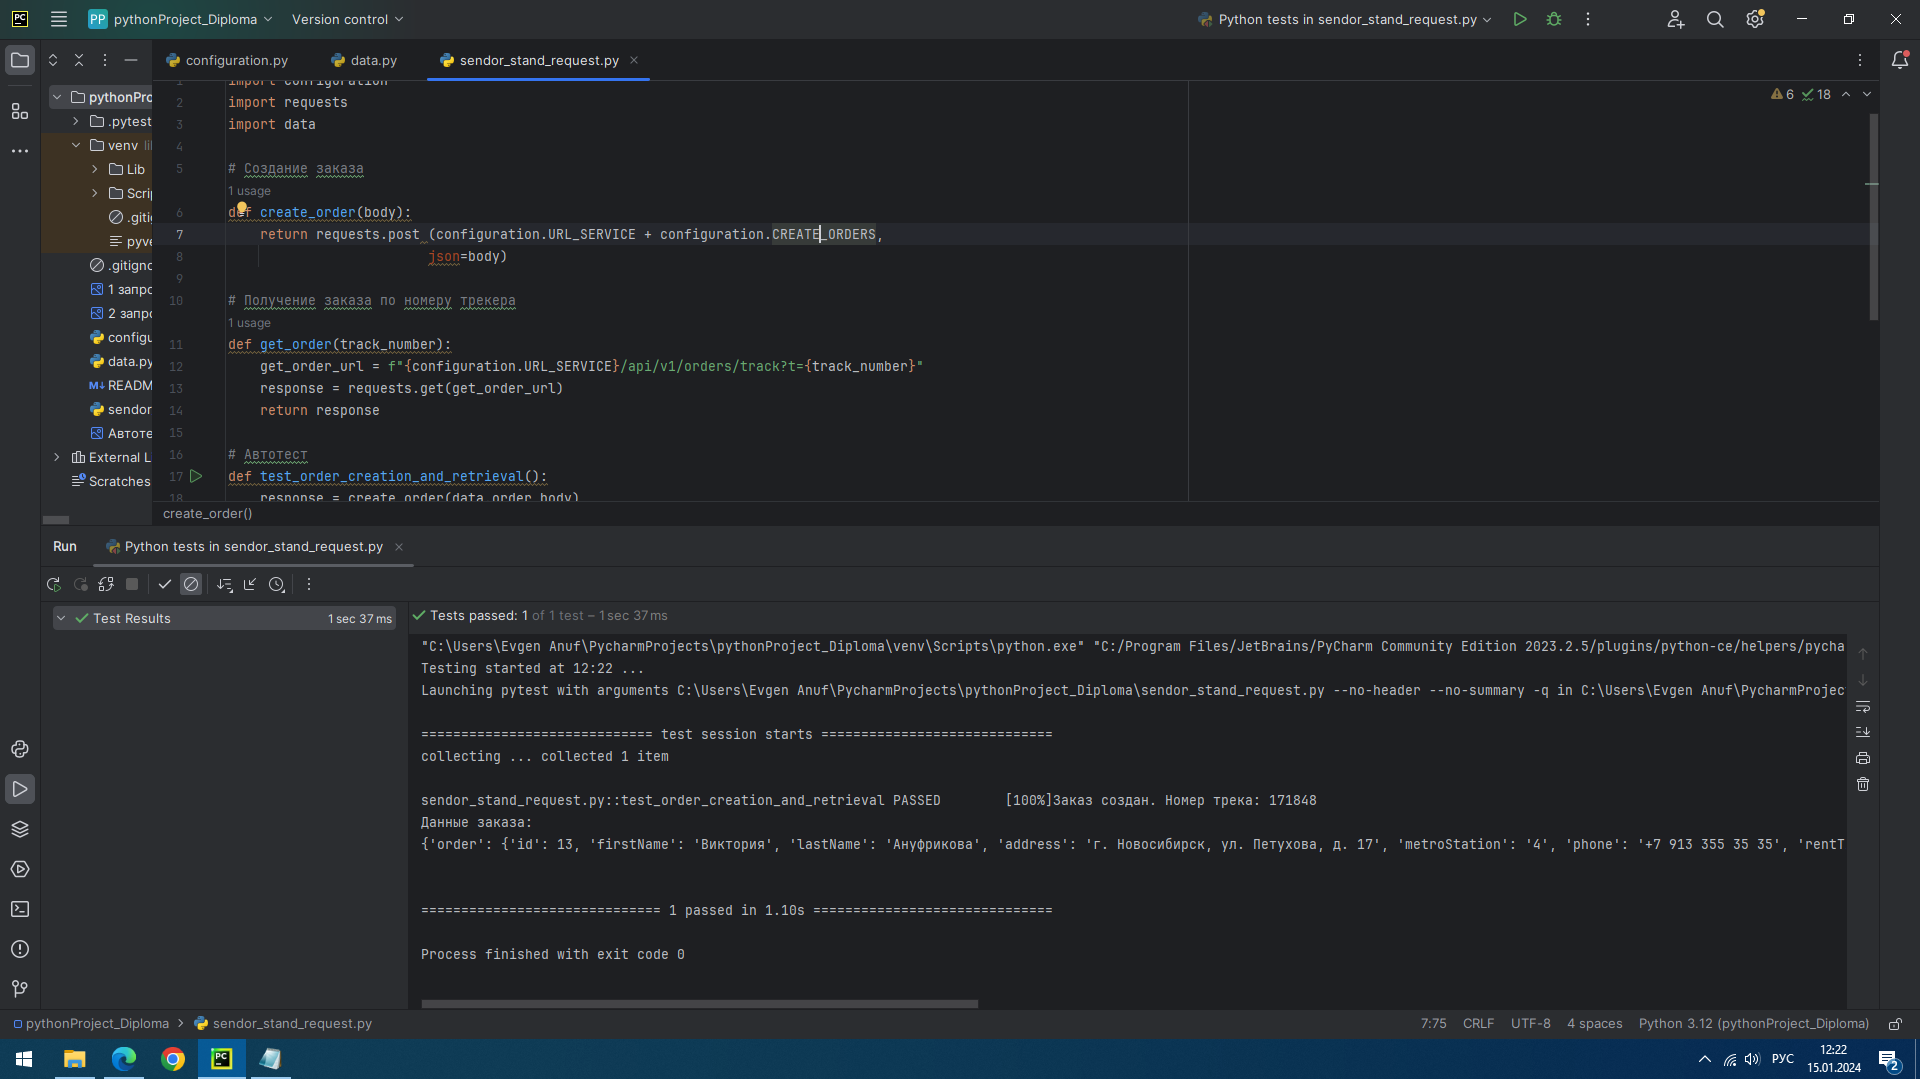
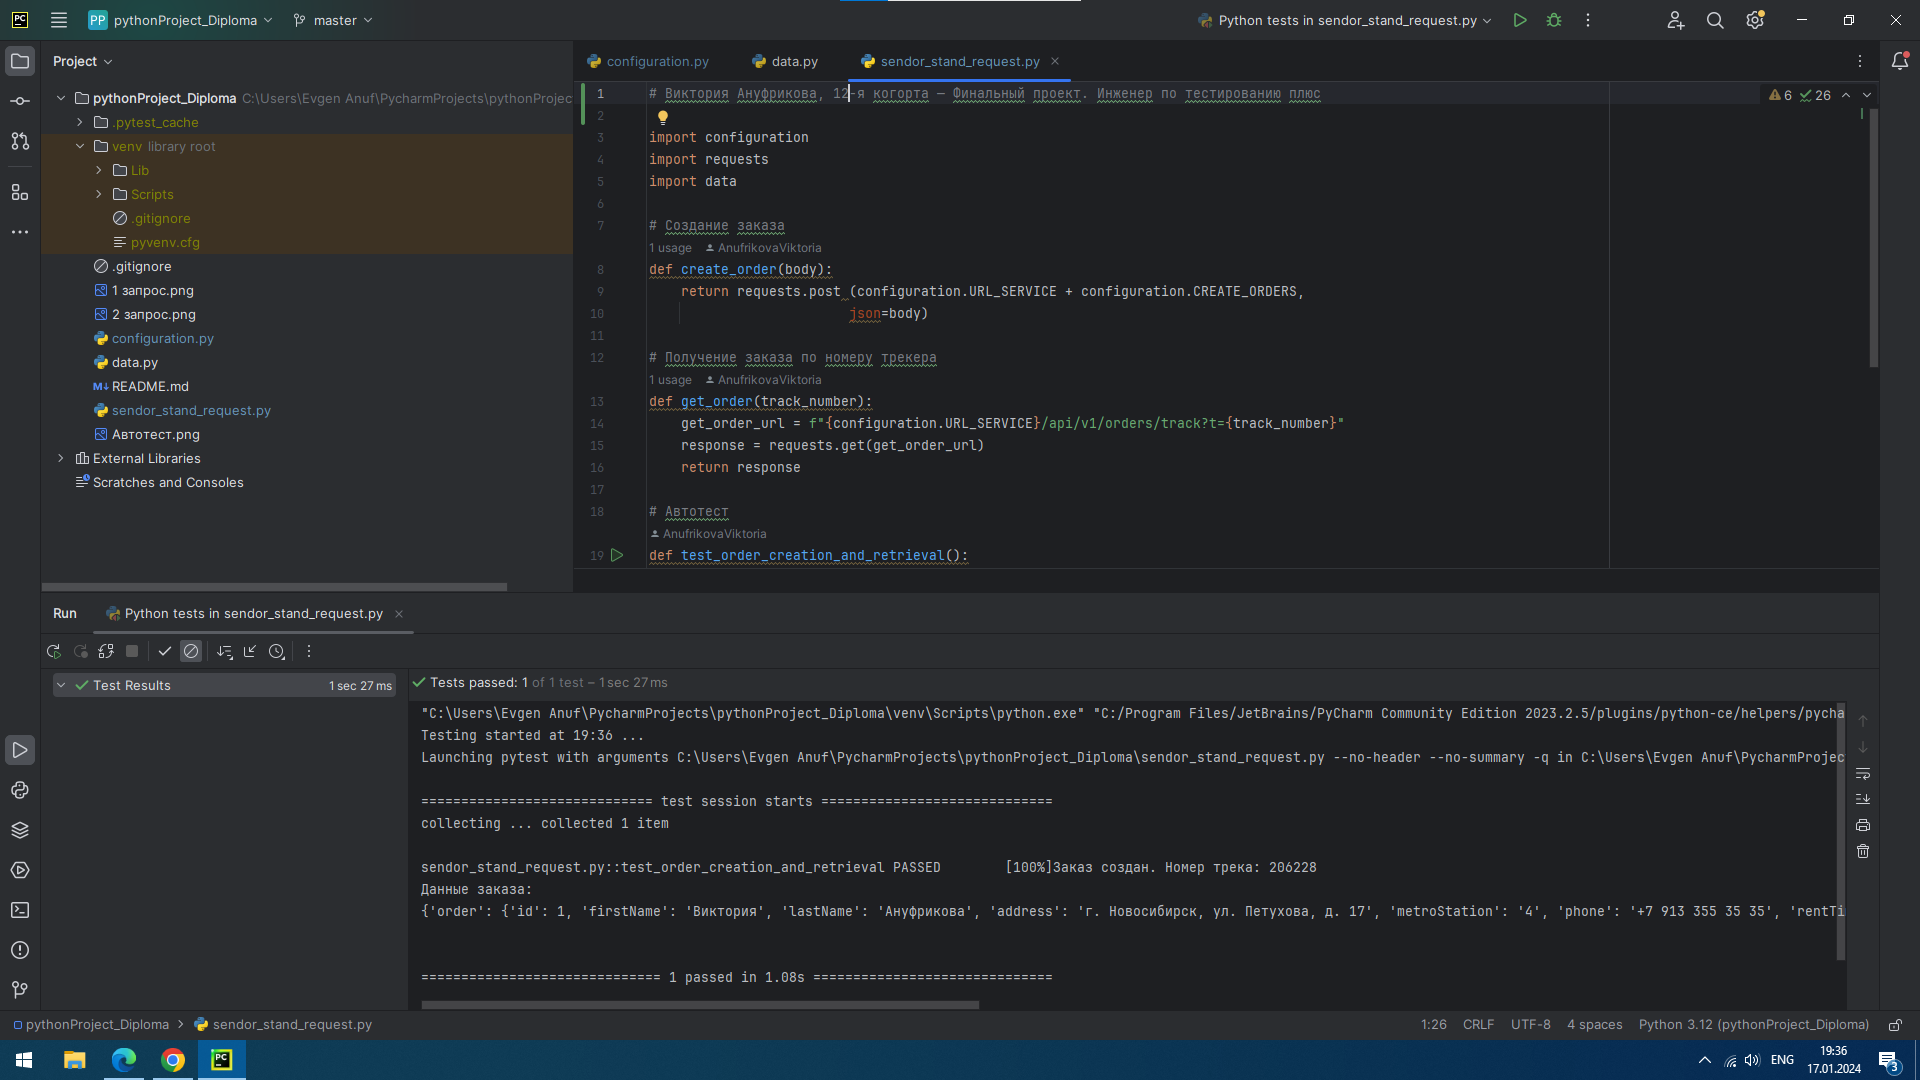
Second version

diff --git a/configuration.py b/configuration.py
@@ -1,2 +1,2 @@
-URL_SERVICE =  "https://ad8c07c4-501a-41c9-a1c8-f9a218982e47.serverhub.praktikum-services.ru"
+URL_SERVICE =  "https://d2807cd1-22e7-4799-bc14-6bda2ef3e343.serverhub.praktikum-services.ru"
 CREATE_ORDERS = "/api/v1/orders"

diff --git a/sendor_stand_request.py b/sendor_stand_request.py
@@ -1,3 +1,5 @@
+# Виктория Ануфрикова, 12-я когорта — Финальный проект. Инженер по тестированию плюс
+
 import configuration
 import requests
 import data
